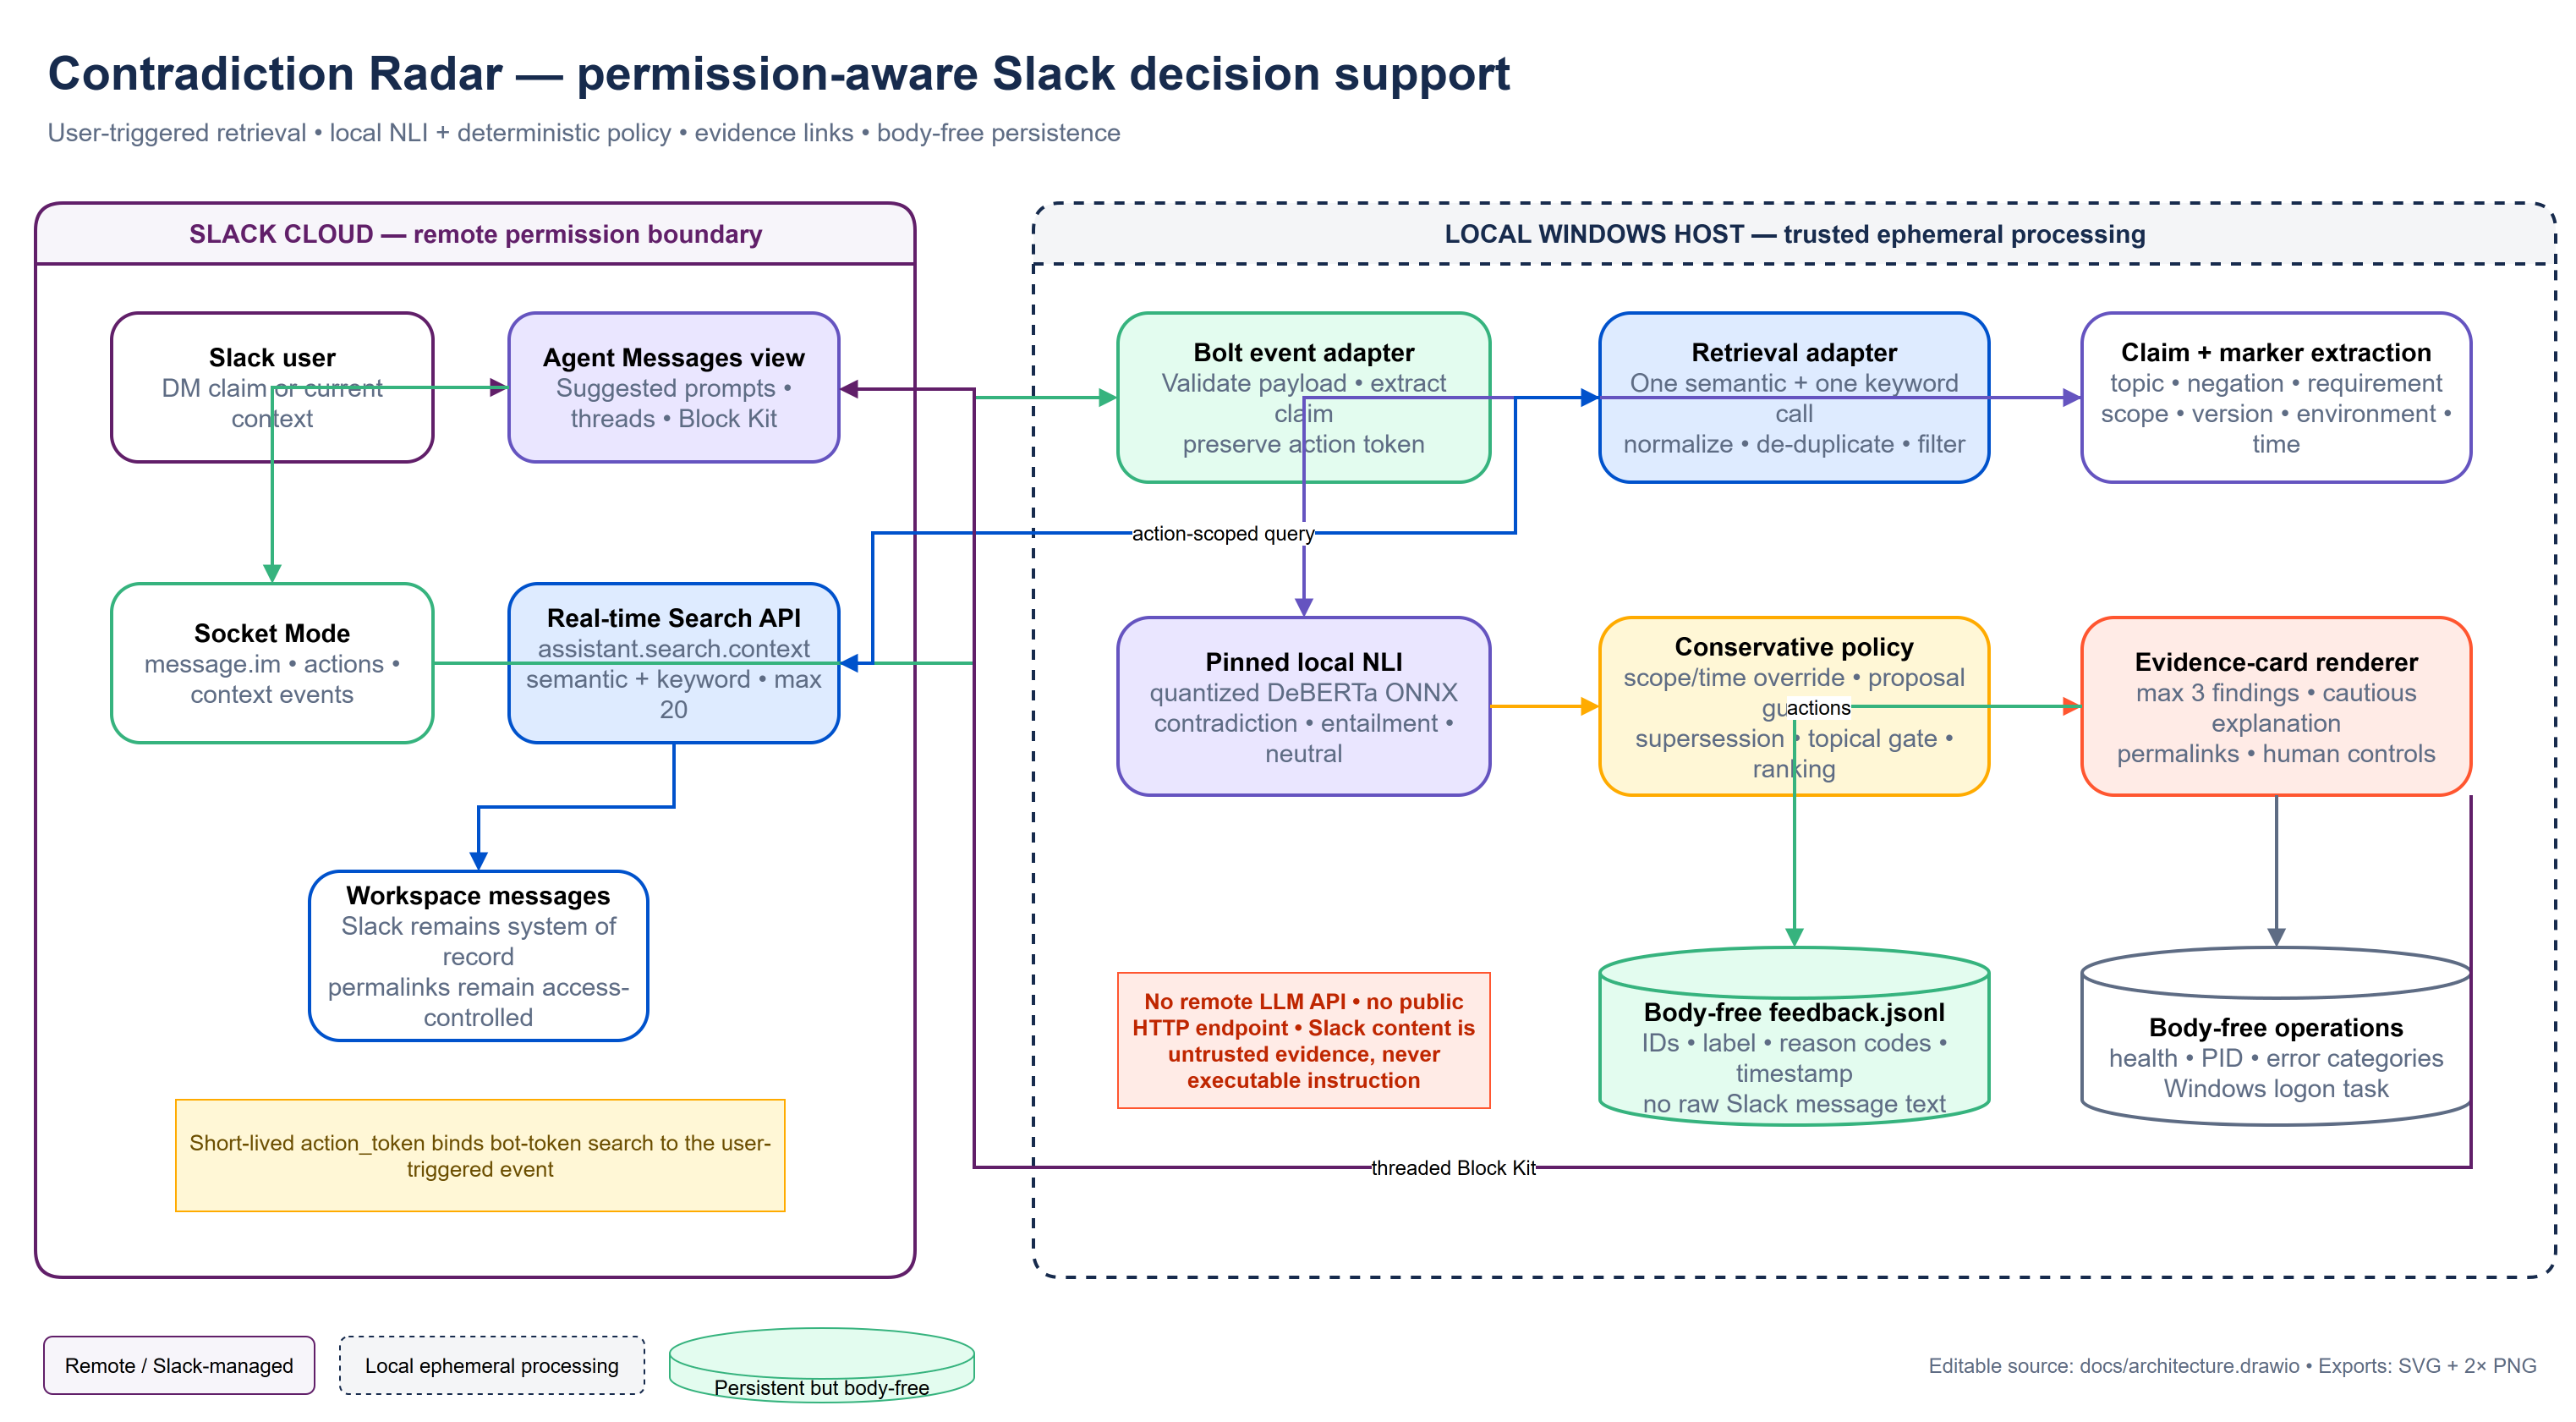
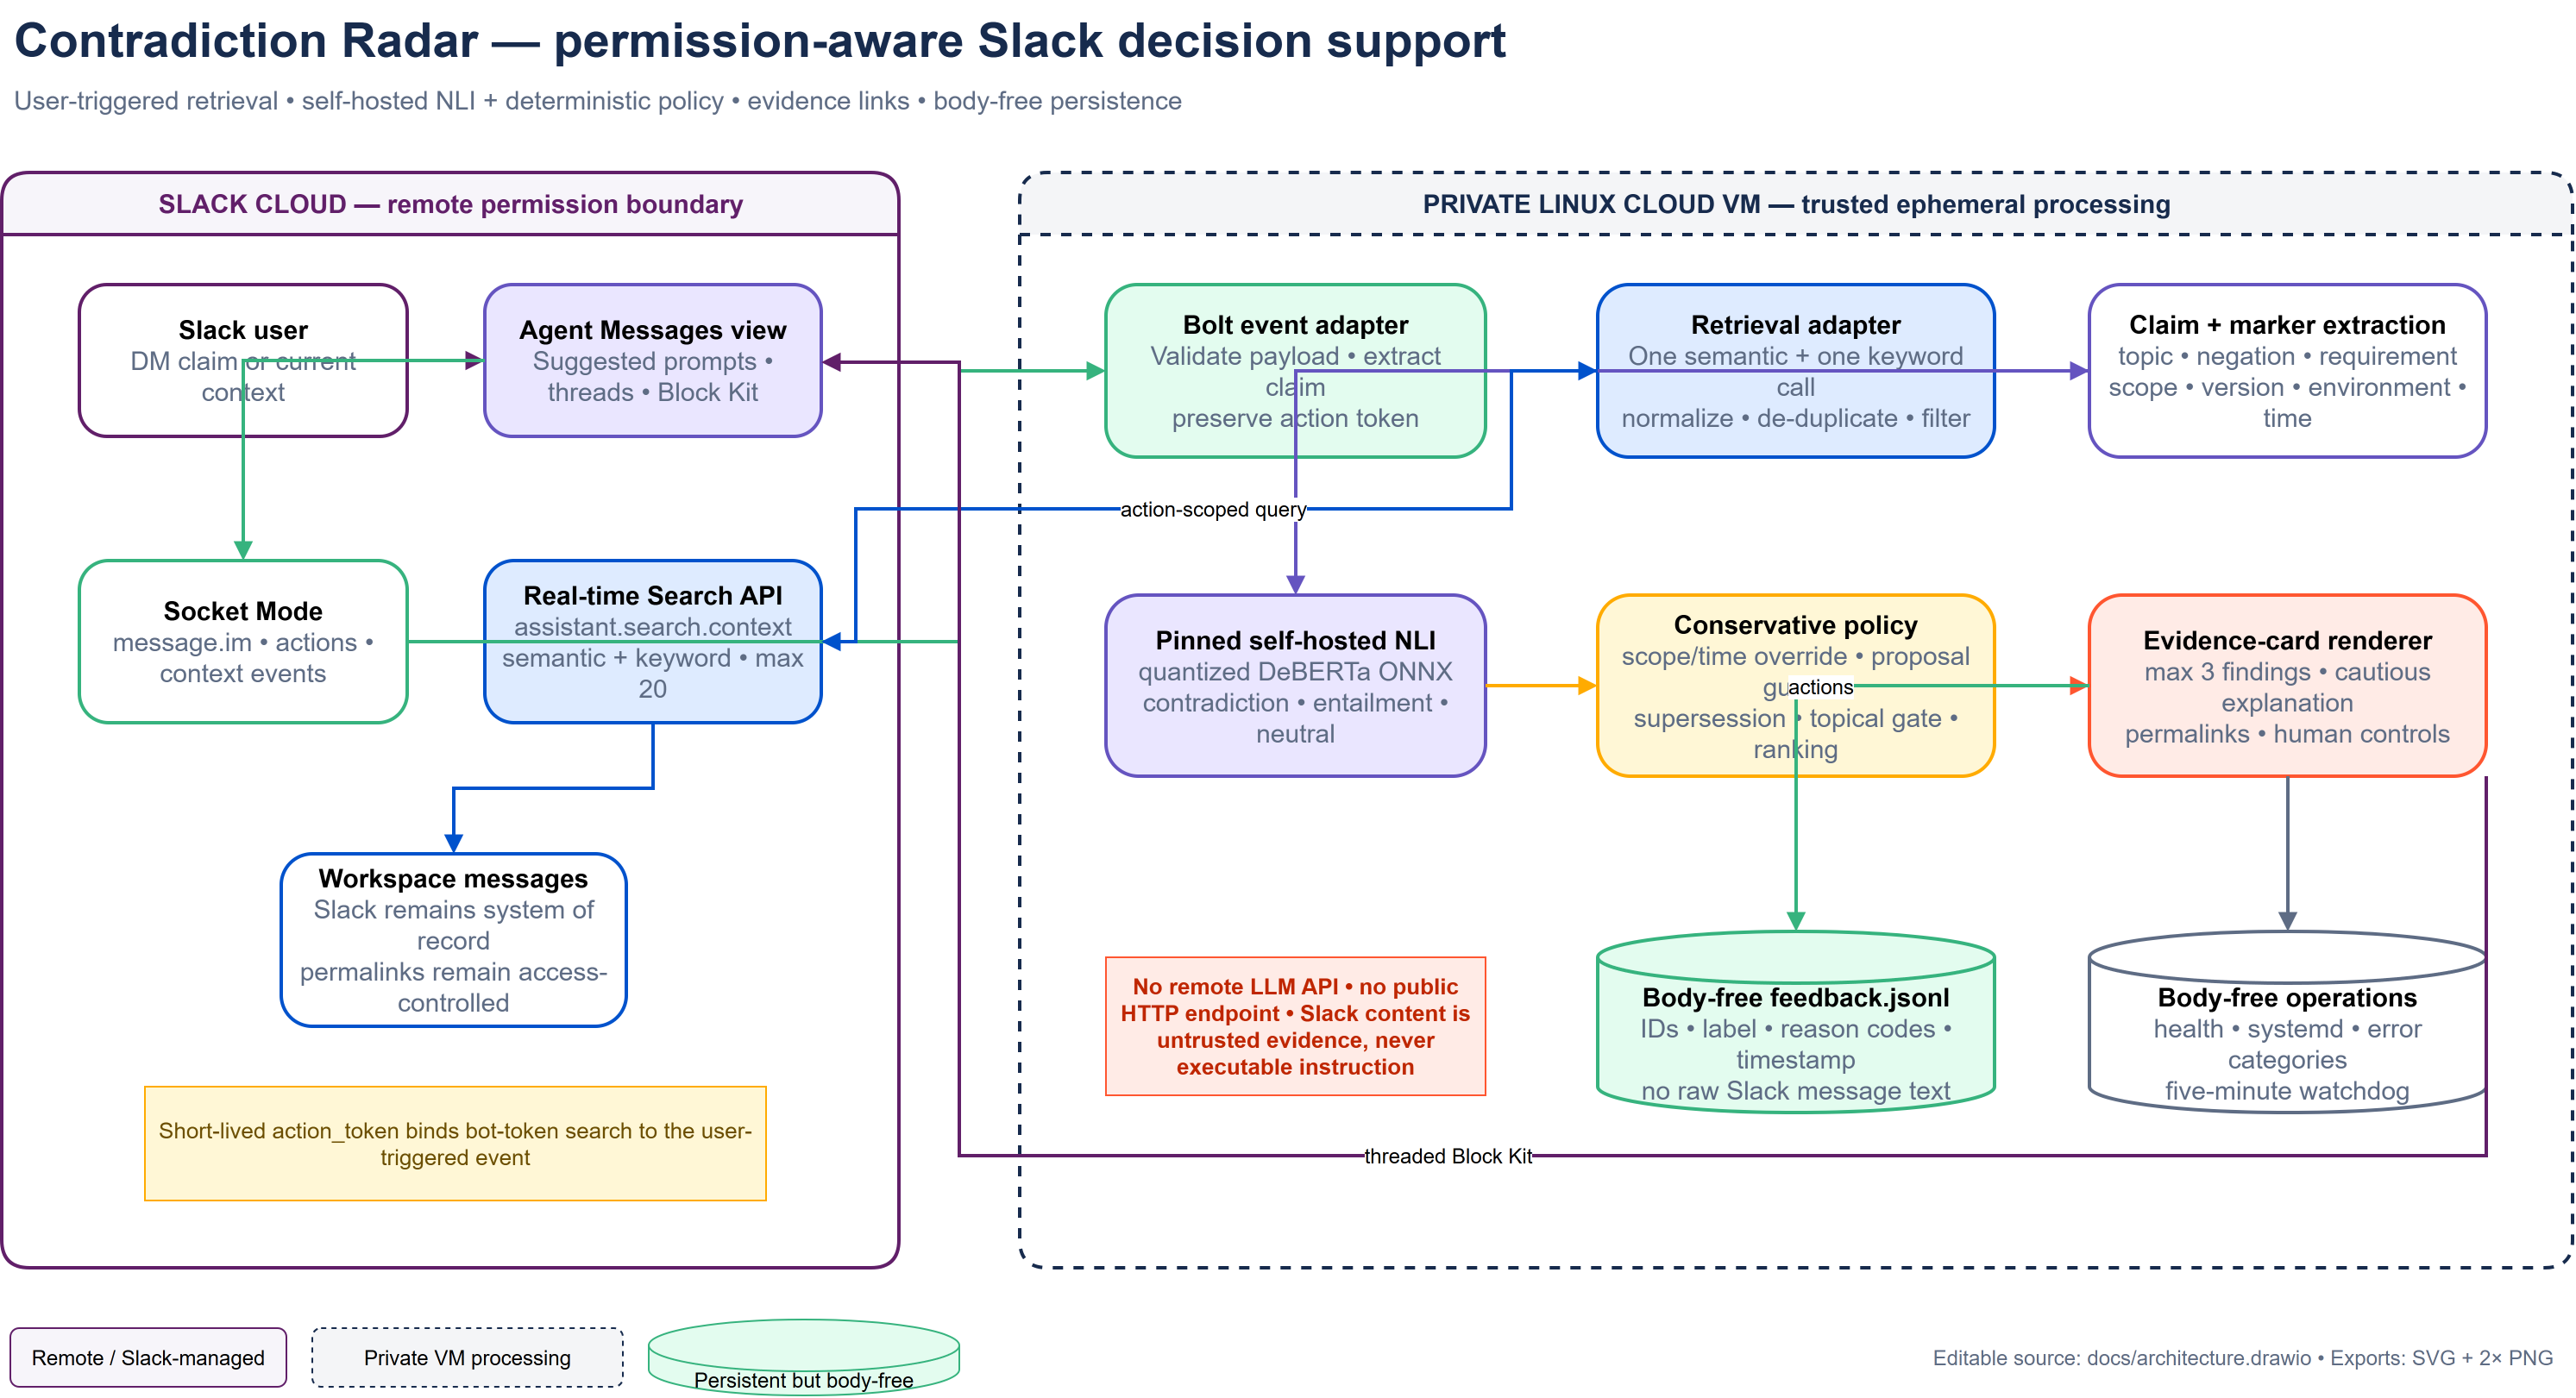
Cut over judging worker to cloud

diff --git a/docs/architecture.md b/docs/architecture.md
@@ -1,6 +1,6 @@
 # Architecture
 
-Contradiction Radar is a local TypeScript service built on Bolt for JavaScript and Slack Socket Mode. Slack remains the system of record and permission boundary. The service holds no public HTTP endpoint.
+Contradiction Radar is a self-hosted TypeScript service built on Bolt for JavaScript and Slack Socket Mode. The judging deployment runs on an isolated Linux cloud VM; Slack remains the system of record and permission boundary. The service holds no public HTTP endpoint.
 
 ## Request path
 
@@ -8,7 +8,7 @@ Contradiction Radar is a local TypeScript service built on Bolt for JavaScript a
 2. The Bolt adapter validates the event shape, uses the event `action_token`, and extracts the current Slack context.
 3. The retrieval adapter calls `assistant.search.info` and `assistant.search.context`. It uses at most two search calls per user inquiry and returns Slack permalinks.
 4. Pure preprocessing extracts one claim and context markers.
-5. A quantized ONNX NLI model runs locally. A deterministic fallback remains available if initialization fails.
+5. A quantized ONNX NLI model runs inside the same private VM process boundary. A deterministic fallback remains available if initialization fails.
 6. The policy layer combines NLI scores with scope/time/environment/version/authority/status rules and returns at most three findings.
 7. The Block Kit renderer sends evidence cards to the requesting user's agent DM.
 8. Feedback actions append minimal structured metadata to a local JSONL store; no message bodies are persisted.
@@ -16,9 +16,9 @@ Contradiction Radar is a local TypeScript service built on Bolt for JavaScript a
 ## Trust boundaries
 
 - Slack client and Slack APIs: remote, permission-enforcing boundary.
-- Socket Mode/Bolt process: local trusted runtime containing ephemeral message text.
-- Local model and rule engine: local-only processing; no model API calls.
-- Feedback/log files: local persistent storage, deliberately body-free.
+- Socket Mode/Bolt process: private trusted VM runtime containing ephemeral message text.
+- Self-hosted model and rule engine: same-VM processing; no model API calls.
+- Feedback/log files: private VM storage, deliberately body-free.
 
 The editable diagram is `docs/architecture.drawio`; exported copies are `docs/architecture.svg` and `docs/architecture.png`.
 
@@ -27,8 +27,8 @@ The editable diagram is `docs/architecture.drawio`; exported copies are `docs/ar
 | Stage | Receives raw Slack text? | Persists raw text? | External network destination |
 | --- | --- | --- | --- |
 | Slack RTS | Yes, Slack system of record | Slack-controlled | Slack only |
-| Local retrieval/preprocessing | Yes, transiently | No | None |
-| Local ONNX NLI | Yes, pairwise and transiently | Model cache only; no message text | Hugging Face only for the pinned model download |
+| VM retrieval/preprocessing | Yes, transiently | No | None |
+| Self-hosted ONNX NLI | Yes, pairwise and transiently | Model cache only; no message text | Hugging Face only for the pinned model download |
 | Policy and Block Kit rendering | Yes, transiently | No | Slack response API |
 | Feedback | No | IDs, labels, reason codes, timestamps | None |
 | Logs | No | Operational metadata/error categories | None |
@@ -39,10 +39,10 @@ The editable diagram is `docs/architecture.drawio`; exported copies are `docs/ar
 - The retrieval adapter makes at most one semantic query plus one keyword query and requests no more than 20 results.
 - Context messages are normalized individually; exact `(channel_id, message_ts)` pairs are de-duplicated.
 - Ordinary bot messages are ignored. Only explicit `[DEMO DATA]` bot fixtures can enter the demonstration corpus.
-- The local NLI model is pinned by repository revision and loaded as quantized ONNX.
+- The self-hosted NLI model is pinned by repository revision and loaded as quantized ONNX.
 - Deterministic rules can downgrade an apparent contradiction when scope, environment, version, time, proposal status, or supersession explains the difference.
 - Ranking returns at most three findings and exposes the evidence, never an automated organizational decision.
 
 ## Operations
 
-The production demo host uses `scripts/start.ps1` and a per-user Windows logon task named `Contradiction Radar`. The start script prevents duplicate processes, builds when required, stores an ignored PID, and redirects body-free logs under `data/runtime/`. `npm run restart` replaces the service cleanly; `npm run health` checks workspace identity and RTS capability.
+The production judging worker runs as an unprivileged `systemd` service on an isolated Linux VM. It starts at boot, restarts after failure, and is checked every five minutes by a timer that validates workspace identity, RTS capability, and semantic search before restarting an unhealthy worker. The VM exposes no application port. A disabled Windows logon task remains available only for emergency rollback.

diff --git a/docs/judge-testing-instructions.md b/docs/judge-testing-instructions.md
@@ -40,13 +40,16 @@ The agent deliberately accepts only bot-authored search results with the `[DEMO 
 - No raw message bodies are retained in logs or feedback.
 - No remote LLM receives workspace content.
 
-## If the local host was restarted
+## Service availability
 
-The Windows logon task should start the agent automatically. If needed, the operator can run:
+Judges do not need to deploy anything or connect to the application host. The submitted Slack sandbox routes events over Socket Mode to the continuously running cloud worker. It starts automatically at VM boot and a five-minute watchdog restarts it after a failed health check.
 
-```powershell
-npm run restart
-npm run health
+For operator verification:
+
+```bash
+systemctl is-active contradiction-radar.service
+systemctl is-active contradiction-radar-watchdog.timer
+sudo -u contradiction-radar bash -lc 'cd /opt/contradiction-radar && /usr/local/bin/node dist/scripts/health.js'
 ```
 
 Healthy output reports `status: healthy`, `teamMatches: true`, `searchApiAvailable: true`, and `semanticSearchEnabled: true`.

diff --git a/README.md b/README.md
@@ -16,7 +16,7 @@ The agent deliberately prefers precision over recall. It distinguishes direct co
 
 1. DM the agent: `Check this claim: Project Atlas must launch on September 15.`
 2. Slack's Real-time Search API returns only evidence available in the triggering user's context.
-3. A local quantized NLI model scores each pair; deterministic policy checks scope, time, version, environment, proposal status, and supersession.
+3. A self-hosted quantized NLI model scores each pair; deterministic policy checks scope, time, version, environment, proposal status, and supersession.
 4. The agent returns up to three Block Kit evidence cards with Slack permalinks.
 5. **Add context**, **Mark resolved**, or **False positive** keeps the user in control. Added context triggers a fresh classification.
 
@@ -25,7 +25,7 @@ The agent deliberately prefers precision over recall. It distinguishes direct co
 - Current Slack `agent_view` messaging experience with suggested prompts and threaded replies.
 - Bolt for JavaScript over Socket Mode; no public inbound endpoint.
 - User-triggered `assistant.search.context` calls include the event `action_token`.
-- Local `Xenova/nli-deberta-v3-xsmall` ONNX inference via Transformers.js; no message content is sent to a remote model API.
+- Self-hosted `Xenova/nli-deberta-v3-xsmall` ONNX inference via Transformers.js; no message content is sent to a remote model API.
 - Raw Slack message bodies are never persisted. Findings selected for the interactive **Add context** flow stay only in a bounded, single-use in-memory cache for at most ten minutes.
 - Logs are body-free. Feedback stores identifiers, labels, reason codes, and timestamps only.
 - Slack permalinks preserve Slack's access boundary instead of copying findings into channels.
@@ -34,7 +34,7 @@ See [architecture](docs/architecture.md) and [security/privacy](docs/security-pr
 
 ## Requirements
 
-- Windows 10/11 for the included service scripts (the Node service itself is portable)
+- Linux for the production systemd deployment, or Windows 10/11 for the fallback service scripts
 - Node.js 24+
 - npm 11+
 - Slack CLI 4.4.0+
@@ -73,6 +73,8 @@ npm run service:install
 
 Use `npm run restart` after code/config changes. Runtime logs and the PID live under ignored `data/runtime/`.
 
+The judging deployment runs on a private Linux VM with no inbound application port, automatic boot startup, process restart, and a five-minute Slack health watchdog. See [cloud deployment](docs/cloud-deployment.md). The Windows task is retained only as an emergency fallback and is disabled after cloud cutover.
+
 ## Test and evaluation evidence
 
 ```powershell
@@ -105,7 +107,7 @@ The sandbox includes six clearly labeled `[DEMO DATA]` messages that demonstrate
 - `src/domain/` — claim/marker preprocessing and conservative decision policy
 - `src/nli/` — pinned local NLI inference and deterministic fallback
 - `tests/fixtures/evaluation.json` — fixed 28-pair evaluation set
-- `scripts/` — health, evaluation, service, scheduler, and preflight operations
+- `scripts/` — health, evaluation, Linux/Windows service, scheduler, and preflight operations
 - `docs/` — product, architecture, security, judge, demo, and submission artifacts
 
 ## Model and source licenses

diff --git a/docs/decisions.md b/docs/decisions.md
@@ -1,8 +1,8 @@
 # Decision log
 
-## 2026-07-12 — Local Socket Mode runtime
+## 2026-07-12 — Socket Mode runtime
 
-Use Bolt for JavaScript with TypeScript and Socket Mode. This avoids paid hosting and a public endpoint while remaining reachable whenever the dedicated Windows host is online.
+Use Bolt for JavaScript with TypeScript and Socket Mode. This avoids a public inbound endpoint and lets the worker move between Windows and Linux without changing the Slack app.
 
 ## 2026-07-12 — Current Agent messaging experience
 
@@ -34,7 +34,11 @@ Run the installed workspace bot and app-level Socket Mode token directly through
 
 ## 2026-07-12 — Durable Windows operation
 
-Use a per-user Task Scheduler logon trigger named `Contradiction Radar`. `scripts/start.ps1` prevents duplicate processes, uses the Node 24 runtime, redirects body-free logs to ignored local storage, and records a PID. `npm run restart` rebuilds and replaces the process; `npm run health` checks team identity and search capability.
+Retain a per-user Task Scheduler logon trigger named `Contradiction Radar` as an emergency fallback. `scripts/start.ps1` prevents duplicate processes, uses the Node 24 runtime, redirects body-free logs to ignored local storage, and records a PID. Disable this task after the cloud worker passes an exclusive end-to-end Slack test.
+
+## 2026-07-12 — Free judging-period cloud availability
+
+Run the production judging worker on one Google Cloud `e2-micro` Linux VM covered by the 90-day Free Trial/Free Tier. Use a 30 GB standard disk, no GPU, no Google service account, no inbound application port, a restricted SSH rule, `systemd` restart, and a five-minute Slack health watchdog. Keep inference self-hosted on the VM; no Slack content is sent to a managed model API. The Windows worker is stopped after a cloud-only RTS and ONNX result is verified.
 
 ## 2026-07-12 — Honest evaluation claim
 

diff --git a/docs/devpost-copy.md b/docs/devpost-copy.md
@@ -38,7 +38,7 @@ Contradiction Radar uses the current Slack `agent_view` Messages experience, Bol
 
 Search candidates are normalized and de-duplicated, then scored locally with a quantized `nli-deberta-v3-xsmall` ONNX model through Transformers.js. A deterministic policy layer checks negation, requirement language, topic overlap, environment, version, customer scope, time markers, proposal status, and explicit supersession. NLI is advisory: visible scope or time differences can override an apparent contradiction.
 
-Results are rendered as threaded Block Kit evidence cards. The Windows host runs the Socket Mode service through an automatic per-user logon task, with one-command health, restart, test, evaluation, and preflight scripts.
+Results are rendered as threaded Block Kit evidence cards. A free-tier Linux VM runs the Socket Mode worker with automatic boot startup, process recovery, and a five-minute Slack health watchdog. The VM exposes no application port, and the quantized model remains self-hosted inside the same private runtime boundary.
 
 ## Challenges we ran into
 
@@ -56,7 +56,7 @@ Finally, we treated privacy as architecture instead of copy: no remote model inf
 - Local quantized NLI with a pinned model revision and deterministic failure fallback
 - 28/28 automated tests and 28/28 exact labels on the declared fixed regression fixture
 - Body-free operational logs and feedback, verified in the live sandbox
-- A reproducible judge path, editable diagrams.net architecture, and one-command Windows operations
+- A reproducible judge path, editable diagrams.net architecture, and resilient Linux operations with a disabled Windows fallback
 
 ## What we learned
 
@@ -68,7 +68,7 @@ Next we would add user-controlled channel/time filters, richer authority/status 
 
 ## Built with
 
-Slack Agent View, Slack Real-time Search API, Slack Bolt for JavaScript, Socket Mode, Block Kit, TypeScript, Node.js, Transformers.js, ONNX Runtime, DeBERTa NLI, Vitest, diagrams.net, PowerShell
+Slack Agent View, Slack Real-time Search API, Slack Bolt for JavaScript, Socket Mode, Block Kit, TypeScript, Node.js, Transformers.js, ONNX Runtime, DeBERTa NLI, Google Compute Engine, systemd, Vitest, diagrams.net, PowerShell
 
 ## Links
 

diff --git a/docs/submission-checklist.md b/docs/submission-checklist.md
@@ -12,7 +12,10 @@
 - [x] Atlas requirement-conflict and supersession flow verified
 - [x] SSO Add-context → scope-mismatch flow verified
 - [x] Feedback acknowledgement and body-free record verified
-- [x] Per-user Windows logon task installed
+- [x] Cloud-only Slack RTS and ONNX response verified after stopping the Windows worker
+- [x] Linux service starts at boot and restarts after failure
+- [x] Five-minute Slack health watchdog active
+- [x] Windows logon task retained but disabled as emergency fallback
 
 ## Quality and security
 